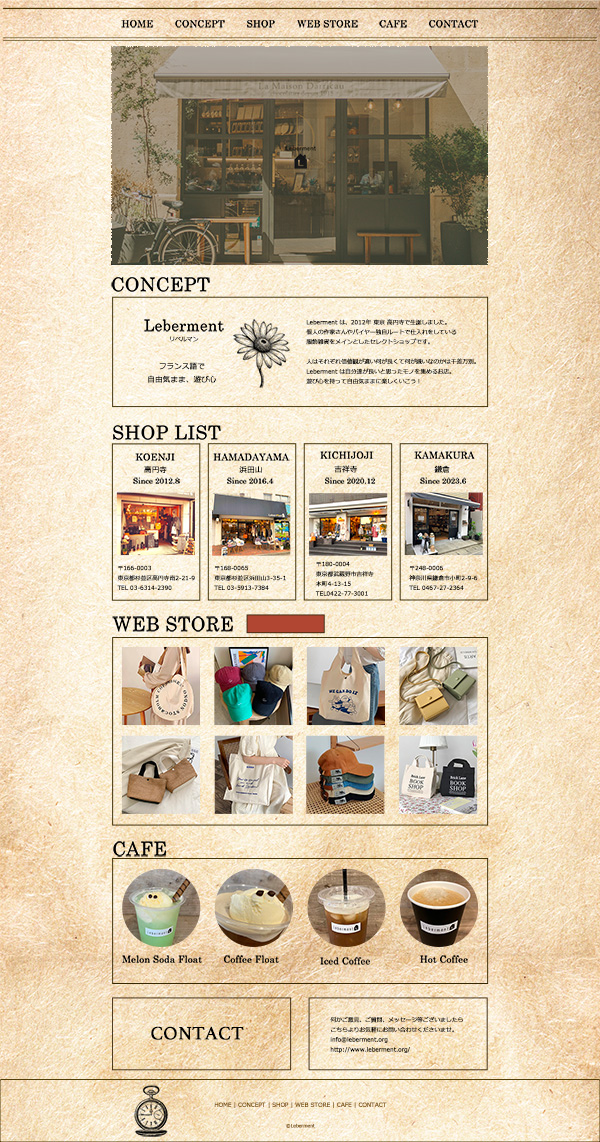
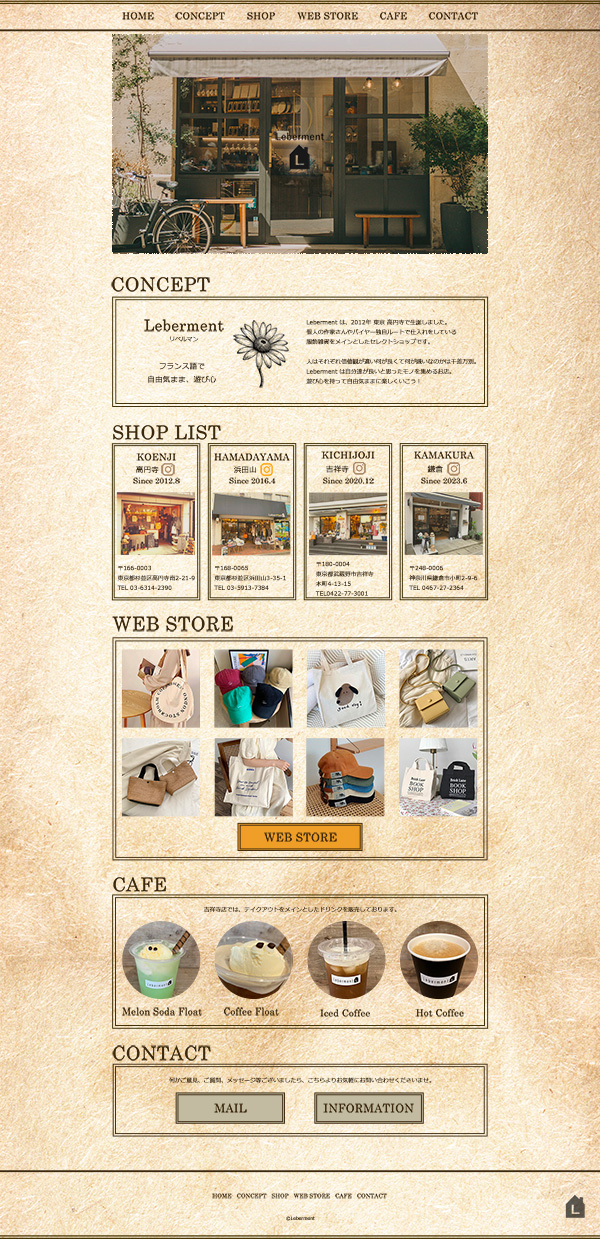
Add files via upload

diff --git a/works.html b/works.html
@@ -193,9 +193,12 @@ $(function() {
 		<dt>Concept</dt>
 		<dd>転職活動での書類通過や採用担当者の方に自身の作品やスキルを見てもらい、「会いたい」「一緒に働きたい」と思っていただけるようなPortfolioサイトを目指して作成しました。<br>
         </dd>
+            
+        <dt>Target</dt>
+        <dd>主に企業の採用担当者様や、Web制作を依頼したいと考えている方を想定しています。<br>様々な企業様に見ていただくことを想定して、ターゲットを絞り込みすぎず、見やすさと爽やかな印象を大切にして作成いたしました。</dd>
         <dt>Point</dt>
-        <dd>採用担当者の視点を意識して、分かりやすく見やすいシンプルさの中に、自分らしさも表現できるように意識しました。<br>IndigoやLight BlueをベースにTopページや枠組みは落ち着いた配色に。
-		<br>Profileページは、様々な仕事や表現活動をしてきた自分の個性も表現できるようにカラフルな写真を使用し芸歴も掲載しました。
+        <dd>採用担当者様が短時間で必要な情報を把握できるように、「分かりやすさ」と「導線」を特に意識しました。具体的には、最初に制作実績が目に入る構成にし、どのようなスキルがあるのかがすぐ伝わるようにしています。また、情報量が多くなりすぎないようにシンプルなデザインにすることで、内容がしっかり伝わることを重視しました。<br>IndigoやLight BlueをベースにTopページや枠組みは爽やかで落ち着いた配色に。
+		<br>Profileページは、様々な仕事や表現活動をしてきた自分の個性も表現できるように、カラフルな写真を使用し芸歴も掲載しました。
 		</dd>
 		  <dt>使用ツール</dt>
 		  <dd>Figma、Photoshop、Dreamweaver</dd>
@@ -208,7 +211,7 @@ $(function() {
     
 <a href="index.html#top" class="readmore-btn">View Site</a>
       
-    <div class="web-flex">
+    <!--<div class="web-flex">
 		
       <div class="web-box">
         <p class="w-img"><img src="w-img/pickles.jpg" alt=""/></p>
@@ -231,16 +234,20 @@ $(function() {
               こちらのロゴはPhotoshopのみで作成しました。<br><br>
 </dd>
           <img src="pickles/img/rogo01.png" alt=""/>
+        </dl>
+        <p>&nbsp;</p>
+        <p>※こちらのサイトはレスポンシブ非対応です。</p>
+        <dl>
           <p>&nbsp;</p>
           <dt>使用ツール</dt>
-            <dd>Photoshop、Dreamweaver</dd>
+          <dd>Photoshop、Dreamweaver</dd>
           <dt>制作期間</dt>
-		  <dd>デザイン1日 / コーディング2日</dd>
+          <dd>デザイン1日 / コーディング2日</dd>
         </dl>
       </div>
     </div>
     
-<a href="pickles/index.html" class="readmore-btn">View Site</a>
+<a href="pickles/index.html" class="readmore-btn">View Site</a> -->
       
       
       <div class="web-flex">
@@ -253,17 +260,19 @@ $(function() {
         <span>
         <p><img src="w-img/w-color04.png" alt=""/></p></span>
         <h3>Select Shop Leberment</h3>
-        <p>前職で勤めていた服飾雑貨やアパレルを扱うセレクトショップの内容を使わせていただき、Webサイトを作成中です。<br>
+        <p>前職で勤めていた服飾雑貨やアパレルを扱うセレクトショップの内容を使わせていただき、Webサイトを作成しました。<br>
         ※オーナー様から使用、掲載許可済み。サンプル品として写真は実店舗と異なるものも使用しています。</p>
         <dl>
           <dt>Concept</dt>
           <dd>『Leberment (リベルマン) 』遊び心を持って自由気ままに楽しくいこう！<br>
             人はそれぞれ価値観が違い何が良くて何が嫌いなのかは千差万別。<br>
             Lebermentは自分達が良いと思ったモノを集めるお店。</dd>
+         <dt>Target</dt>
+         <dd>20-30代 女性、トラッド、カジュアル、古着テイストが好きな方。<br>
+             雑誌は、FUDGEやCLUEL、GISELeなどを好み、おしゃれは好きだが、できるだけ低価格のもので、人と被らない個性的なものを求めている方に設定しました。</dd>
           <dt>Point</dt>
-          <dd>オーナー様のこだわりやコンセプトを大切にし、オシャレな中にどこか一癖ある個性的で可愛い商品を引き立たせるようにシンプルな色味で、店内カラーやナチュラルで海外風なテイストをサイトにも使用。店内ディスプレイに使用している英字新聞や英書をデザインの参考にしました。<br>
-            WebStoreへの誘導も考慮し、目立つボタンに。<br>
-            元のサイトはページ数やリンク先が多く、情報が分かりにくいところがあったので、1ページで全ての情報が分かるように変更しました。</dd>
+          <dd>クライアントの要望は、お店の紹介をメインとしており、パッと見てどんなお店なのか雰囲気が分かり、来店してもらうことを１番大切にしたい。<br>元のサイトがリンクやページ数が多く、情報が分かりにくい、元のページに戻りにくいという課題があったので、1ページで全ての情報が分かるように変更しました。<br>オーナー様のこだわりやお店のコンセプトを大切にし、オシャレな中にどこか一癖ある個性的で可愛い商品を引き立たせるように、シンプルな色味をサイトに採用。<br>店内カラーに使われているナチュラルで海外風なテイストをサイトにも使用し、店内ディスプレイに使用している英字新聞や洋書などの要素をデザインに取り入れることで、お店の雰囲気に近づけました。<br>Web Storeは、人気商品とアイキャッチになるような色味の商品を載せることで、より興味を持ってもらえるようにし、WebStoreへのボタンも目立つ配色にしました。<br>レスポンシブにも対応して作成しています。
+          </dd>
           <dt>使用ツール</dt>
             <dd>Figma、Photoshop、Dreamweaver</dd>
           <dt>制作期間</dt>
